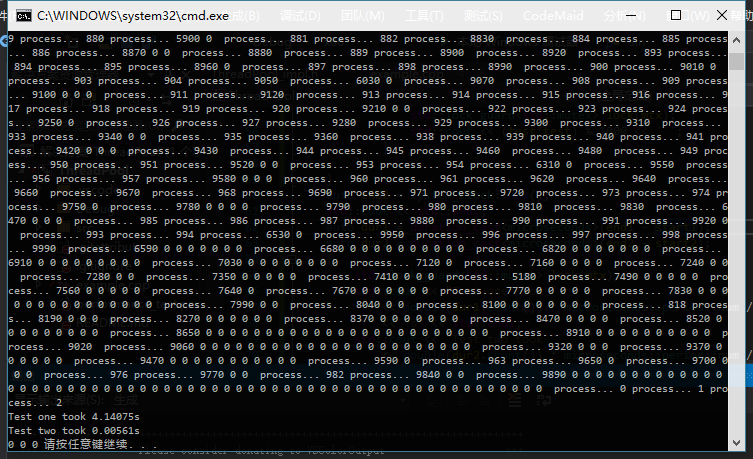
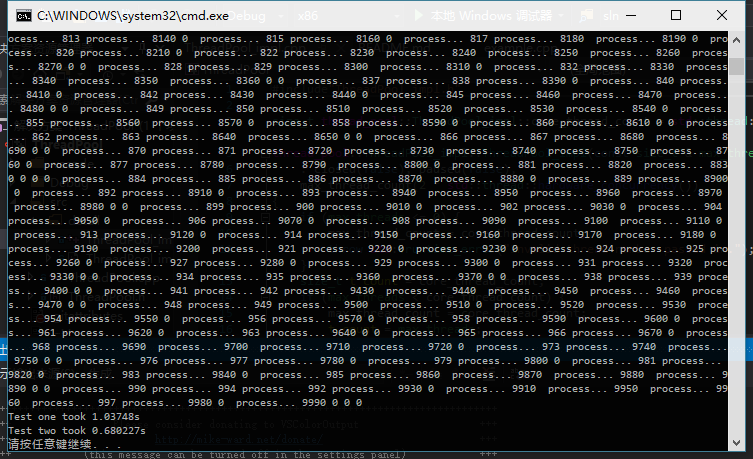
The last commit was totally wrong. ( tasks have not been completed. ) This is a fix version.

Changed region(s): [[0.0, 0.061, 1.0, 1.0], [0.9774, 0.0305, 1.0, 0.061]]

diff --git a/example.cpp b/example.cpp
@@ -20,10 +20,10 @@ int main()
 				std::cout << " process... " << i;
 			}
 			int test;
-			for (int j = 0; j < 1000000; ++j) {
+			for (int j = 0; j < 100000; ++j) {
 				test = j * 100 / 123;
 			}
-			for (int j = 0; j < 1000000; ++j) {
+			for (int j = 0; j < 100000; ++j) {
 				test *= j * 123 / 100;
 			}
 			{
@@ -37,38 +37,40 @@ int main()
 	}
 	auto end1 = system_clock::now();
 	auto start2 = system_clock::now();
-	ThreadPool pool(4);
+	ThreadPool pool(8);
+	std::vector<std::future<void>> results;
 	for (int i = 0; i < 1000; ++i) {
-		pool.submitTask([i, &mtx] {
+		results.push_back(pool.submitTask([i, &mtx] {
 			{
 				std::lock_guard<std::mutex> lock(mtx);
 				std::cout << " process... " << i;
 			}
 			int test;
-			for (int j = 0; j < 1000000; ++j) {
+			for (int j = 0; j < 100000; ++j) {
 				test = j * 100 / 123;
 			}
-			for (int j = 0; j < 1000000; ++j) {
+			for (int j = 0; j < 100000; ++j) {
 				test *= j * 123 / 100;
 			}
 			{
 				std::lock_guard<std::mutex> lock(mtx);
 				std::cout << (test*test) % 1000 << ' ';
 			}
-		});
+		})
+		);
 	}
+	for (auto& result : results)
+		result.get();
 	auto end2 = system_clock::now();
 	std::cout << std::endl;
 	auto dur1 = duration_cast<microseconds>(end1 - start1);
 	auto dur2 = duration_cast<microseconds>(end2 - start2);
-	{
-		std::lock_guard<std::mutex> lock(mtx);
-		std::cout << "Test one took "
-			<< double(dur1.count()) * microseconds::period::num / microseconds::period::den
-			<< "s" << std::endl;
-		std::cout << "Test two took "
-			<< double(dur2.count()) * microseconds::period::num / microseconds::period::den
-			<< "s" << std::endl;
-	}
+	std::cout << "Test one took "
+		<< double(dur1.count()) * microseconds::period::num / microseconds::period::den
+		<< "s" << std::endl;
+	std::cout << "Test two took "
+		<< double(dur2.count()) * microseconds::period::num / microseconds::period::den
+		<< "s" << std::endl;
+
 	return 0;
 }

diff --git a/README.md b/README.md
@@ -67,10 +67,10 @@ for (int i = 0; i < 1000; ++i) {
 			std::cout << " process... " << i;
 		}
 		int test;
-		for (int j = 0; j < 1000000; ++j) {
+		for (int j = 0; j < 100000; ++j) {
 			test = j * 100 / 123;
 		}
-		for (int j = 0; j < 1000000; ++j) {
+		for (int j = 0; j < 100000; ++j) {
 			test *= j * 123 / 100;
 		}
 		{
@@ -85,25 +85,29 @@ for (auto& thread : threads) {
 
 // method two.
 ThreadPool pool(4);
+std::vector<std::future<void>> results;
 for (int i = 0; i < 1000; ++i) {
-	pool.submitTask([i, &mtx] {
+	results.push_back(pool.submitTask([i, &mtx] {
 		{
 			std::lock_guard<std::mutex> lock(mtx);
 			std::cout << " process... " << i;
 		}
 		int test;
-		for (int j = 0; j < 1000000; ++j) {
+		for (int j = 0; j < 100000; ++j) {
 			test = j * 100 / 123;
 		}
-		for (int j = 0; j < 1000000; ++j) {
+		for (int j = 0; j < 100000; ++j) {
 			test *= j * 123 / 100;
 		}
 		{
 			std::lock_guard<std::mutex> lock(mtx);
 			std::cout << (test*test) % 1000 << ' ';
 		}
-	});
+	})
+	);
 }
+for (auto& result : results)
+	result.get();
 ```
 REMARK: Test results under `Debug-mode` has no reference meaning .<br>
 Here comes the test result:<br>
